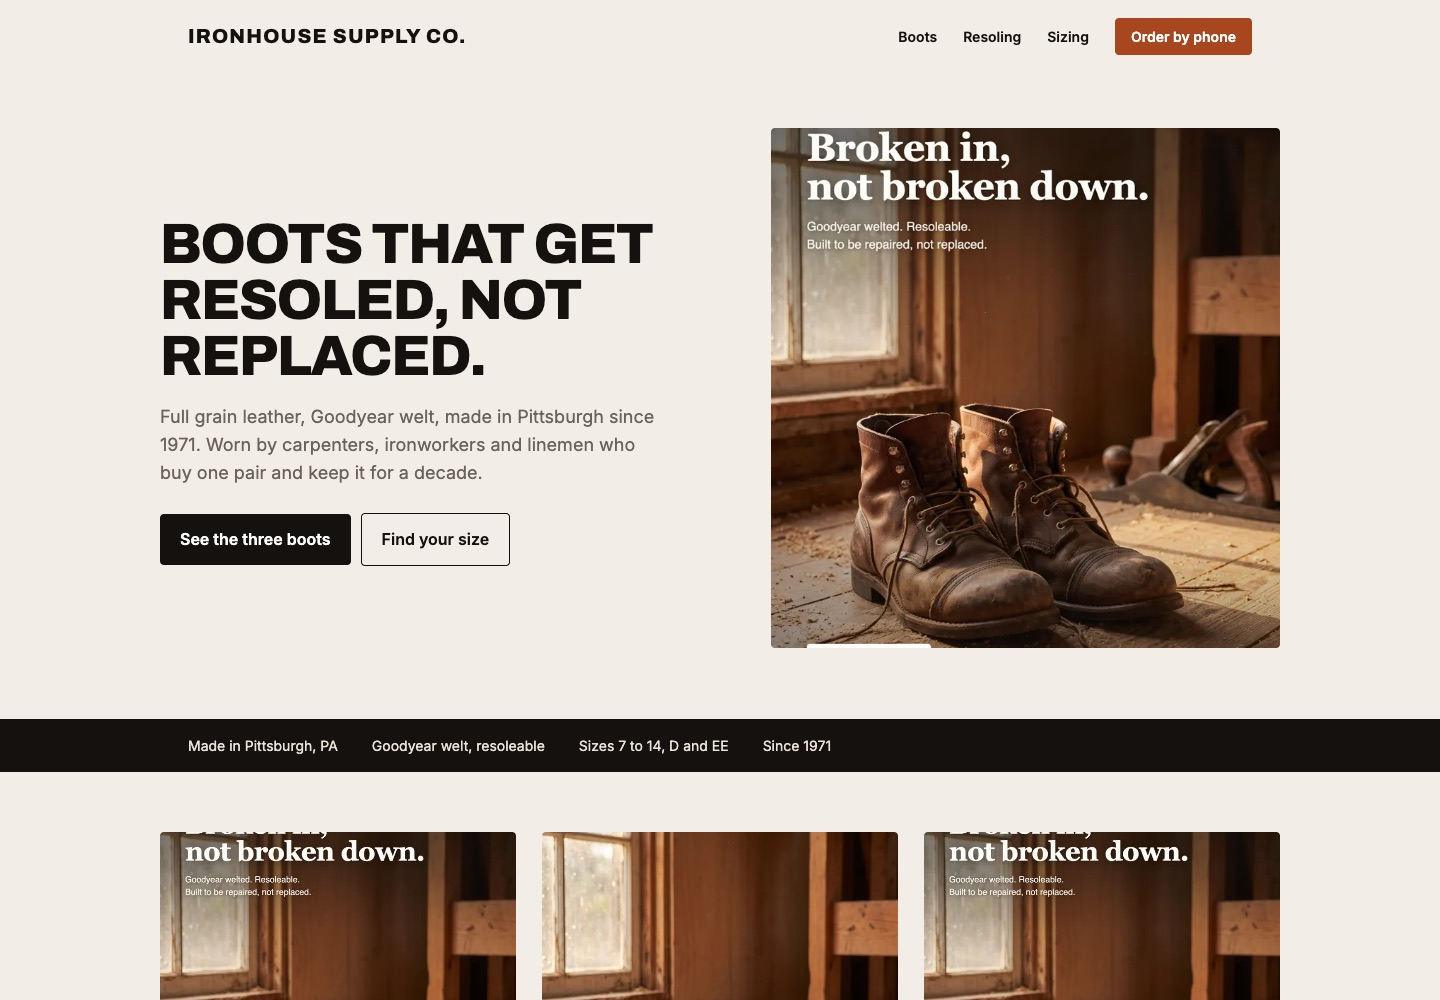
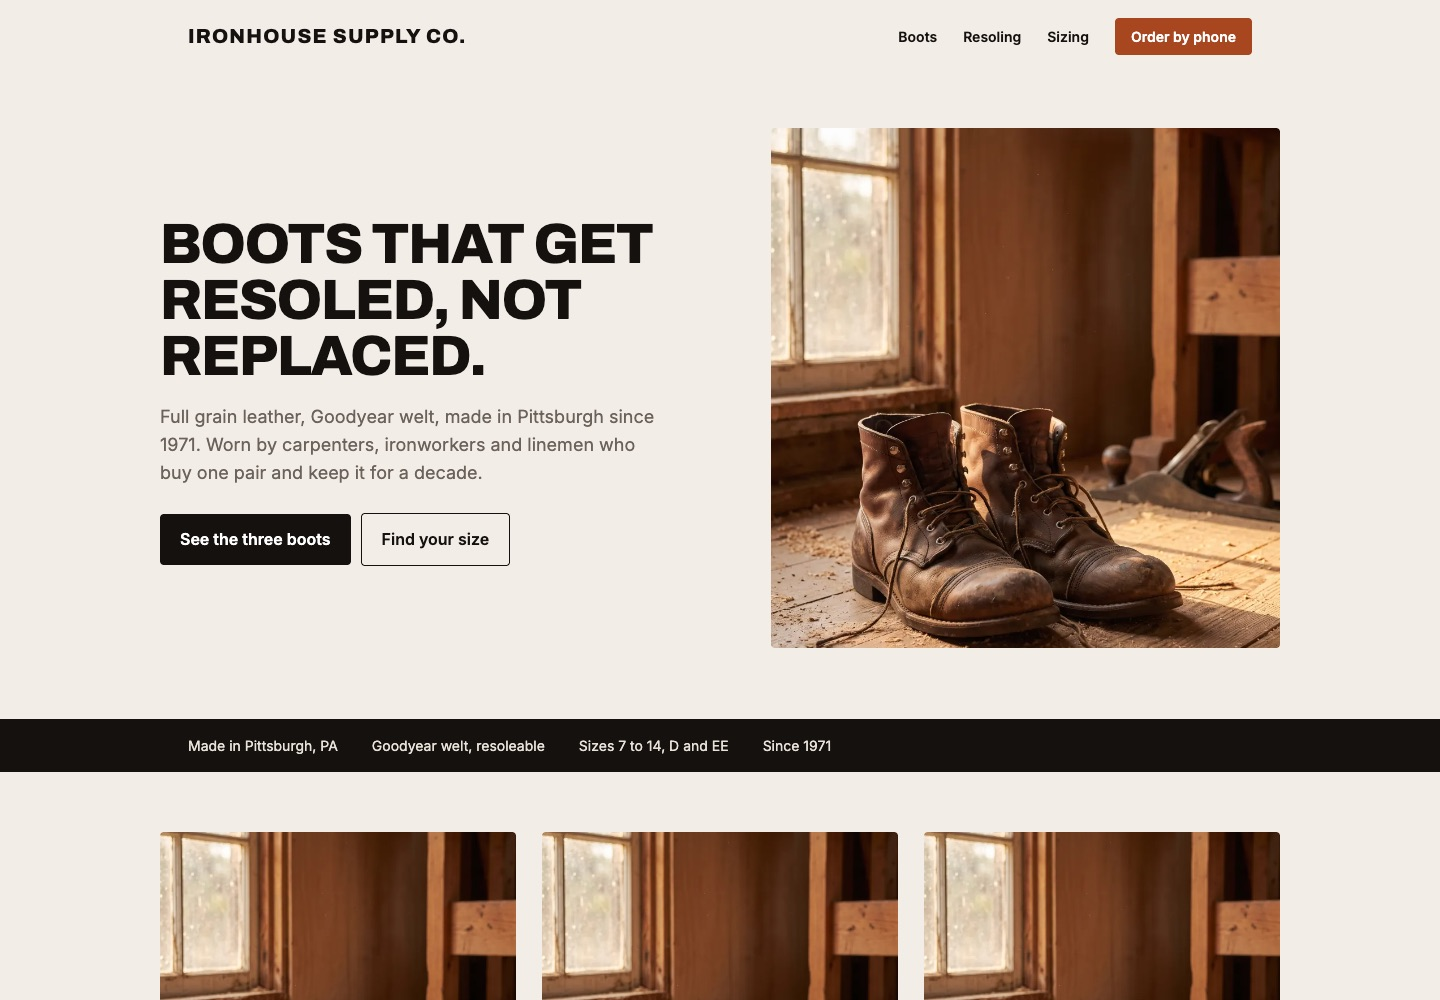
Samples use the plain product photos, not the finished ads

diff --git a/public/samples/ironhouse-after.html b/public/samples/ironhouse-after.html
@@ -32,12 +32,12 @@ footer{background:var(--ink);color:#d9d0c4;padding:34px 0;font-size:14px}footer 
 </style></head>
 <body>
 <div class="wrap"><header><div class="brand">Ironhouse Supply Co.</div><nav><a href="#boots">Boots</a><a href="#resole">Resoling</a><a href="#sizing">Sizing</a><a class="call" href="#order">Order by phone</a></nav></header></div>
-<section class="wrap hero"><div><h1>Boots that get resoled, not replaced.</h1><p>Full grain leather, Goodyear welt, made in Pittsburgh since 1971. Worn by carpenters, ironworkers and linemen who buy one pair and keep it for a decade.</p><a class="btn p" href="#boots">See the three boots</a><a class="btn s" href="#sizing">Find your size</a></div><div><img src="../work/ironhouse.webp" alt="Worn Ironhouse boots on a workshop floor"></div></section>
+<section class="wrap hero"><div><h1>Boots that get resoled, not replaced.</h1><p>Full grain leather, Goodyear welt, made in Pittsburgh since 1971. Worn by carpenters, ironworkers and linemen who buy one pair and keep it for a decade.</p><a class="btn p" href="#boots">See the three boots</a><a class="btn s" href="#sizing">Find your size</a></div><div><img src="../work/raw-ironhouse.webp" alt="Worn Ironhouse boots on a workshop floor"></div></section>
 <div class="strip"><div class="wrap"><span>Made in Pittsburgh, PA</span><span>Goodyear welt, resoleable</span><span>Sizes 7 to 14, D and EE</span><span>Since 1971</span></div></div>
 <section class="wrap boots" id="boots">
-<div class="boot"><img src="../work/ironhouse.webp" alt="Model 71 six inch boot"><h3>Model 71 · 6 inch</h3><p>Brown full grain, steel toe available. The everyday boot.</p><b>$189</b></div>
+<div class="boot"><img src="../work/raw-ironhouse.webp" alt="Model 71 six inch boot"><h3>Model 71 · 6 inch</h3><p>Brown full grain, steel toe available. The everyday boot.</p><b>$189</b></div>
 <div class="boot"><img src="../work/raw-ironhouse.webp" alt="Model 88 eight inch boot"><h3>Model 88 · 8 inch</h3><p>Black leather, lineman heel, extra ankle.</p><b>$219</b></div>
-<div class="boot"><img src="../work/ironhouse.webp" alt="Model 100 wedge boot" style="object-position:left"><h3>Model 100 · Wedge</h3><p>Moc toe, wedge sole, for concrete all day.</p><b>$199</b></div>
+<div class="boot"><img src="../work/raw-ironhouse.webp" alt="Model 100 wedge boot" style="object-position:left"><h3>Model 100 · Wedge</h3><p>Moc toe, wedge sole, for concrete all day.</p><b>$199</b></div>
 </section>
 <section class="resole" id="resole"><div class="wrap"><h2>Send them back. We resole them.</h2><p>Every pair is welted so the sole comes off and a new one goes on. Most pairs come back to us two or three times over their life.</p><div class="steps">
 <div><b>01 · Box them up</b>Any age, any condition. Include a note with your name and number.</div>

diff --git a/public/samples/marlowe-after.html b/public/samples/marlowe-after.html
@@ -32,12 +32,12 @@ footer{background:var(--ink);color:#d9d0c4;padding:34px 0;font-size:14px}footer 
 </style></head>
 <body>
 <div class="wrap"><header><div class="brand">Marlowe Woodworks</div><nav><a href="#work">Tables</a><a href="#how">How we work</a><a href="#woods">Woods</a><a class="call" href="tel:8025550148">Call the shop</a></nav></header></div>
-<section class="wrap hero"><div><h1>One tree. One table. Built by hand in Vermont since 1988.</h1><p>Dining tables, desks and benches in walnut, cherry and maple, made one at a time in our shop. Tell us the room and the number of chairs; we build to it.</p><a class="btn p" href="tel:8025550148">Call (802) 555-0148</a><a class="btn s" href="#how">How an order works</a></div><div><img src="../work/marlowe.webp" alt="A walnut dining table in a lived-in room"></div></section>
+<section class="wrap hero"><div><h1>One tree. One table. Built by hand in Vermont since 1988.</h1><p>Dining tables, desks and benches in walnut, cherry and maple, made one at a time in our shop. Tell us the room and the number of chairs; we build to it.</p><a class="btn p" href="tel:8025550148">Call (802) 555-0148</a><a class="btn s" href="#how">How an order works</a></div><div><img src="../work/raw-marlowe.webp" alt="A walnut dining table in a lived-in room"></div></section>
 <div class="strip"><div class="wrap"><span>Black walnut, cherry, hard maple, white oak</span><span>Built to your room and chair count</span><span>Delivered and set up in New England</span><span>Since 1988</span></div></div>
 <section class="wrap pieces" id="work">
-<div class="piece"><img src="../work/marlowe.webp" alt="Walnut dining table"><h3>Walnut dining table</h3><p>Live edge or square, 6 to 12 feet, breadboard ends on request.</p></div>
+<div class="piece"><img src="../work/raw-marlowe.webp" alt="Walnut dining table"><h3>Walnut dining table</h3><p>Live edge or square, 6 to 12 feet, breadboard ends on request.</p></div>
 <div class="piece"><img src="../work/raw-marlowe.webp" alt="Cherry table in the shop"><h3>Cherry writing desk</h3><p>Tapered legs, one drawer, oil finish that darkens with the years.</p></div>
-<div class="piece"><img src="../work/marlowe.webp" alt="Bench" style="object-position:bottom"><h3>Entry benches</h3><p>Matched to the table or on their own, 3 to 6 feet.</p></div>
+<div class="piece"><img src="../work/raw-marlowe.webp" alt="Bench" style="object-position:bottom"><h3>Entry benches</h3><p>Matched to the table or on their own, 3 to 6 feet.</p></div>
 </section>
 <section class="how" id="how"><div class="wrap"><h2>How an order works</h2><div class="steps">
 <div><b>01 · Call or email</b>Tell us the room, the wood you like and how many people sit down. Photos of the space help.</div>
